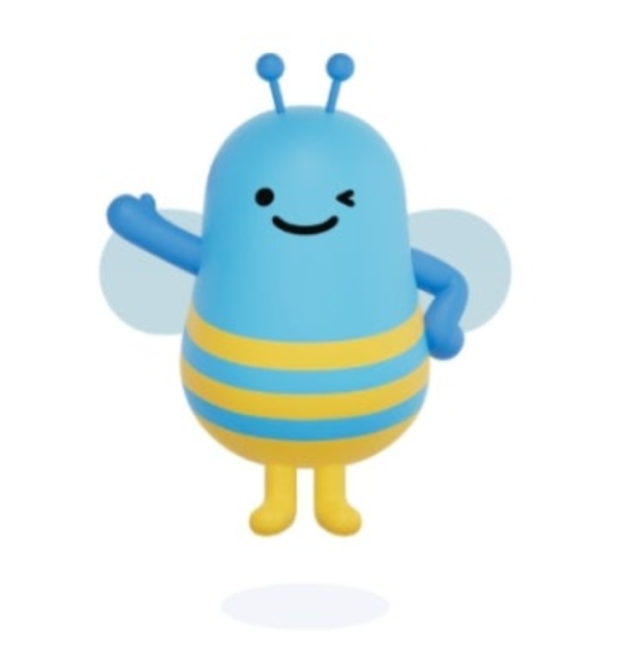
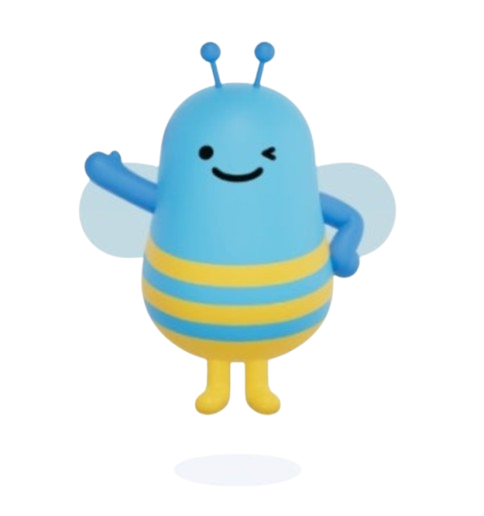
[refactor/TK-122]: 위비 캐릭터에 motion 적용

diff --git a/apps/mobile/app/travel/[id]/agreement/completed/page.tsx b/apps/mobile/app/travel/[id]/agreement/completed/page.tsx
@@ -1,16 +1,26 @@
+"use client";
+
 import { Button } from "@withbee/ui/button";
-import { Tag } from "@withbee/ui/tag";
 import styles from "./page.module.css";
 import { Title } from "@withbee/ui/title";
 import agreeWibee from "../../../../../public/friends/agreeWibee.png";
 import Image from "next/image";
+import { motion } from "framer-motion";
 
 export default function Page() {
   return (
     <div className={styles.container}>
       <Title label="" />
       <div className={styles.subtitleContainer}>
-        <Image src={agreeWibee} alt="completed" width={208} height={222} />
+        <motion.div
+          animate={{ y: [0, -10, 0] }} // 위아래로 움직이기
+          transition={{
+            duration: 2, 
+            repeat: Infinity, 
+            repeatType: "reverse",
+          }}>
+          <Image src={agreeWibee} alt="completed" width={208} height={222} />
+        </motion.div>
         <p className={styles.title}>정산 동의 완료</p>
         <p className={styles.content}>
           모든 사람이 정산 동의 시, 자동 정산됩니다.
